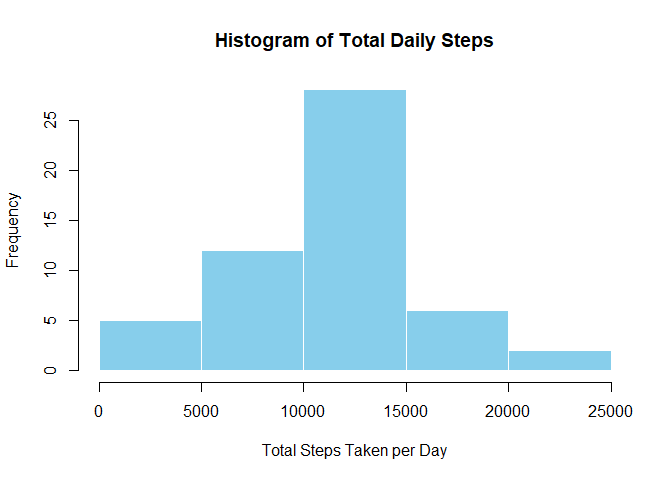
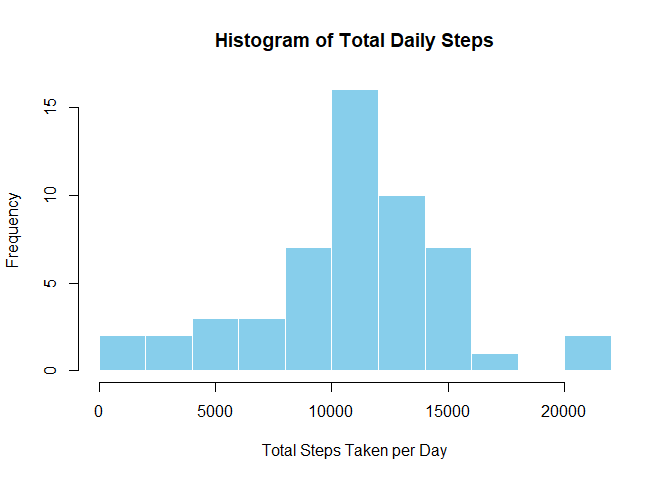
Add MD so easier to review. Add bucket size (breaks) to histograms

diff --git a/PA1_template.html b/PA1_template.html
@@ -369,8 +369,9 @@ hist(daily_steps$steps,
      main = &quot;Histogram of Total Daily Steps&quot;,
      xlab = &quot;Total Steps Taken per Day&quot;,
      col = &quot;skyblue&quot;,
+     breaks = 10,
      border = &quot;white&quot;)</code></pre>
[2 lines of base64/hex data omitted]
 <pre class="r"><code># 2. Calculate and report the **mean** and **median** total number of steps taken per day
 
 mean_steps &lt;- mean(daily_steps$steps, na.rm = TRUE)
@@ -430,8 +431,9 @@ hist(daily_steps_filled$steps,
      main = &quot;Histogram of Total Steps per Day (missing steps have been filled)&quot;,
      xlab = &quot;Total Steps&quot;,
      col = &quot;skyblue&quot;,
+     breaks = 10,
      border = &quot;white&quot;)</code></pre>
[2 lines of base64/hex data omitted]
 <pre class="r"><code># Calculate and report the **mean** and **median** total number of steps taken per day.
 
 mean_steps_filled &lt;- mean(daily_steps_filled$steps, na.rm = TRUE)

diff --git a/PA1_template.md b/PA1_template.md
@@ -5,20 +5,19 @@ output:
     keep_md: true
 ---
 
-```{r set_globals, echo=FALSE, results="hide"}
-# Do echo the code, and show the results.
-knitr::opts_chunk$set(echo = TRUE, results = "show")
-```
+
 
 ## Loading and preprocessing the data
 
-```{r}
+
+``` r
 df <- read.csv(unz("activity.zip", "activity.csv"), stringsAsFactors = FALSE)
 ```
 
 ## What is mean total number of steps taken per day?
 
-```{r}
+
+``` r
 # 1. Make a histogram of the total number of steps taken each day
 
 # Aggregate steps per day (excluding NA values)
@@ -32,19 +31,33 @@ hist(daily_steps$steps,
      border = "white")
 ```
 
-```{r}
+![](C:/sean/src/github/mrseanryan/Coursera_DS_RepData_PeerAssessment1/PA1_template_files/figure-html/unnamed-chunk-2-1.png)<!-- -->
+
+
+``` r
 # 2. Calculate and report the **mean** and **median** total number of steps taken per day
 
 mean_steps <- mean(daily_steps$steps, na.rm = TRUE)
 cat("Mean steps: ", mean_steps)
+```
 
+```
+## Mean steps:  10766.19
+```
+
+``` r
 median_steps <- median(daily_steps$steps, na.rm = TRUE)
 cat("Median steps: ", median_steps)
 ```
 
+```
+## Median steps:  10765
+```
+
 ## What is the average daily activity pattern?
 
-```{r}
+
+``` r
 # 1. Make a time series plot (i.e. `type = "l"`) of the 5-minute interval (x-axis) and the average number of steps taken, averaged across all days (y-axis)
 
 mean_interval_steps <- aggregate(steps ~ interval, data = df, FUN = mean, na.rm = TRUE)
@@ -57,7 +70,10 @@ plot(mean_interval_steps$interval, mean_interval_steps$steps,
      col = "skyblue")
 ```
 
-```{r}
+![](C:/sean/src/github/mrseanryan/Coursera_DS_RepData_PeerAssessment1/PA1_template_files/figure-html/unnamed-chunk-4-1.png)<!-- -->
+
+
+``` r
 # 2. Which 5-minute interval, on average across all the days in the dataset, contains the maximum number of steps?
 
 max_steps <- mean_interval_steps[which.max(mean_interval_steps$steps), ]
@@ -65,15 +81,25 @@ cat("Max average steps occur at interval", max_steps$interval,
     "with", round(max_steps$steps, 2), "steps on average.\n")
 ```
 
+```
+## Max average steps occur at interval 835 with 206.17 steps on average.
+```
+
 ## Imputing missing values
 
-```{r}
+
+``` r
 # 1. Calculate and report the total number of missing values in the dataset (i.e. the total number of rows with `NA`s)
 
 cat("Number of rows with missing steps", sum(is.na(df$steps)))
 ```
 
-```{r}
+```
+## Number of rows with missing steps 2304
+```
+
+
+``` r
 # 2. Devise a strategy for filling in all of the missing values in the dataset. The strategy does not need to be sophisticated. For example, you could use the mean/median for that day, or the mean for that 5-minute interval, etc.
 
 # Impute the missing steps, using the average number of steps for that 5-minute interval across all days.
@@ -83,7 +109,8 @@ avg_interval_steps <- aggregate(steps ~ interval, data = df, FUN = mean, na.rm =
 ```
 
 
-```{r}
+
+``` r
 # 3. Create a new dataset that is equal to the original dataset but with the missing data filled in.
 
 # Merge average steps per interval back to the original data
@@ -96,7 +123,8 @@ df_filled$steps[is.na(df_filled$steps)] <- df_filled$steps_avg[is.na(df_filled$s
 df_filled$steps_avg <- NULL
 ```
 
-```{r}
+
+``` r
 # 4. Make a histogram of the total number of steps taken each day.
 
 daily_steps_filled <- aggregate(steps ~ date, data = df_filled, FUN = sum, na.rm = TRUE)
@@ -107,23 +135,50 @@ hist(daily_steps_filled$steps,
      col = "skyblue",
      breaks = 10,
      border = "white")
+```
 
-```{r}
+![](C:/sean/src/github/mrseanryan/Coursera_DS_RepData_PeerAssessment1/PA1_template_files/figure-html/unnamed-chunk-9-1.png)<!-- -->
+
+``` r
 # Calculate and report the **mean** and **median** total number of steps taken per day.
 
 mean_steps_filled <- mean(daily_steps_filled$steps, na.rm = TRUE)
 cat("Mean steps (filled): ", mean_steps_filled)
+```
 
+```
+## Mean steps (filled):  10766.19
+```
+
+``` r
 median_steps_filled <- median(daily_steps_filled$steps, na.rm = TRUE)
 cat("Median steps (filled): ", median_steps_filled)
+```
 
+```
+## Median steps (filled):  10766.19
+```
+
+``` r
 # - Do these values differ from the estimates from the first part of the assignment?
 mean_diff <- mean_steps_filled - mean_steps
 cat("Mean steps (filled vs missing): ", mean_steps_filled,  mean_steps, " difference:", mean_diff)
+```
 
+```
+## Mean steps (filled vs missing):  10766.19 10766.19  difference: 0
+```
+
+``` r
 median_diff <- median_steps_filled - median_steps
 cat("Median steps (filled vs missing): ", median_steps_filled,  median_steps, " difference:", median_diff)
+```
 
+```
+## Median steps (filled vs missing):  10766.19 10765  difference: 1.188679
+```
+
+``` r
 # - What is the impact of imputing missing data on the estimates of the total daily number of steps?
 
 diff_check <- function(diff, name)
@@ -140,12 +195,24 @@ diff_check <- function(diff, name)
   }
 }
 diff_check(mean_diff, "Mean")
+```
+
+```
+## ABOUT SAME: estimate of * Mean * total daily number of steps.
+```
+
+``` r
 diff_check(median_diff, "Median")
+```
+
+```
+## INCREASED: estimate of * Median * total daily number of steps.
 ```
 
 ## Are there differences in activity patterns between weekdays and weekends?
 
-```{r}
+
+``` r
 # 1. Create a new factor variable in the dataset with two levels -- "weekday" and "weekend" indicating whether a given date is a weekday or weekend day.
 
 df_filled$date <- as.Date(df_filled$date)
@@ -160,7 +227,8 @@ df_filled$day_type <- ifelse(day_type %in% c("Saturday", "Sunday"), "weekend", "
 df_filled$day_type <- factor(df_filled$day_type, levels = c("weekday", "weekend"))
 ```
 
-```{r}
+
+``` r
 # Compute overall Y-axis range for both plots
 y_range <- range(df_filled$steps, na.rm = TRUE)
 
@@ -183,6 +251,8 @@ with(subset(df_filled, day_type == "weekend"), {
        ylim = y_range)  # Set consistent Y-axis
 })
 ```
+
+![](C:/sean/src/github/mrseanryan/Coursera_DS_RepData_PeerAssessment1/PA1_template_files/figure-html/unnamed-chunk-12-1.png)<!-- -->
 
 ### Observations from the plots:
 - weekdays show a broader active time range (from earlier in the day, to later in the day).
